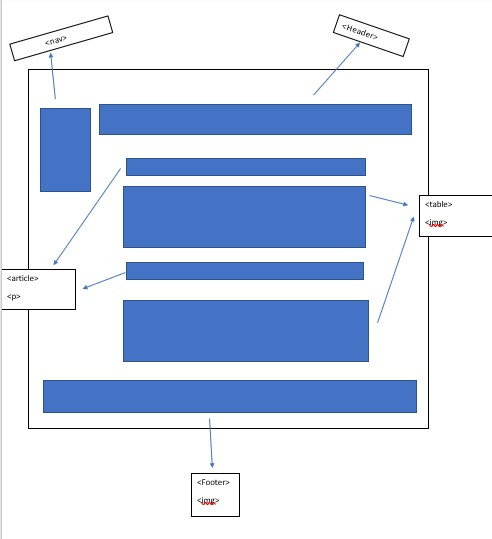
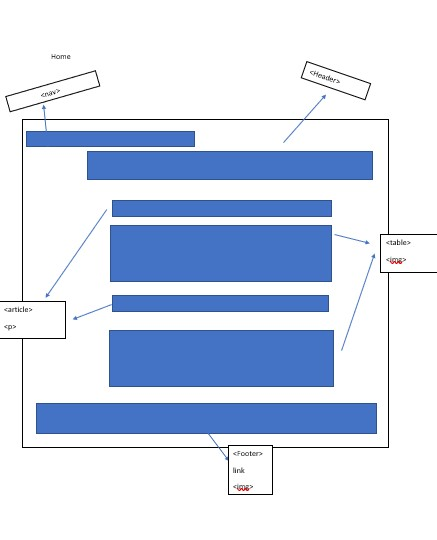
final assignment

Changed region(s): [[0.0, 0.0, 1.0, 1.0]]

diff --git a/siteplan2.html b/siteplan2.html
@@ -11,11 +11,8 @@
 <body> 
   <!--nav code-->
     <nav class="topnav">
-        <a href="index.html">Home</a>
-        <a href="siteplan.html">Site Plans</a>
-        <a href="continued.html">Feed</a>
-        <a href="daytenform.html">Sign Up!</a>
-        <a href="form2.html">Survey</a>
+        <a href="siteplan.html"> Back </a>
+    >>
         
   </nav>
   <br/>
@@ -39,8 +36,8 @@
 <tr>
 <td></td>
 <td></td>
-<td><img src="img/siteplan1.jpg" alt="my website plan" class="responsive" style="float: right;"></td>
-<td><img src="img/siteplan2.jpg" alt="my website plan" class="responsive" style="float: right;"></td>
+<td><img src="img/siteplan5.jpg" alt="my website plan" class="responsive" style="float: right;"></td>
+<td><img src="img/sitemap1.jpg" alt="my website plan" class="responsive" style="float: right;"></td>
 
 
 
@@ -59,16 +56,16 @@
        <br/>
        <tr>
     <td></td>
-    <td><img src="img/siteplan3.jpg" alt="my form plan" class="responsive" style="float: right;"></td>
-    <td><img src="img/siteplan4.jpg" alt="my website map" class="responsive" style="float: right;"> </td>
+    <td><img src="img/siteplan7.jpg" alt="my form plan" class="responsive" style="float: right;"></td>
+    <td><img src="img/siteplan8.jpg" alt="my website map" class="responsive" style="float: right;"> </td>
 
     </tr>
     </table>
-    <b><p style="font-size:18.5px; color: #816b4e ;text-align: center;font-family: 'Gill Sans', 'Gill Sans MT', Calibri, 'Trebuchet MS', sans-serif;"> <a href="siteplan2.html"> Click to Continue </a>
-      <br/>
+
+
     <hr width="50%">
     <footer>
-      <!--foorter and closing tags-->
+      <!--footer and closing tags-->
         <b><p style="font-size:20px; color: #000000 ;text-align: center; font-size:medium;"><a href="#"> <img src="img/snkr beast logo 2.jpg" alt="Logo of a shoe" width="110" height="120"><br/>SNKR BEAST<br/> </p>
         </a>
             </b>

diff --git a/form2.html b/form2.html
@@ -97,7 +97,7 @@ Do you believe you had an good overall experience on this site:<br/>
 <input type="radio" id="q2" name="question" value="no">
 <label for="email2">No</label><br><br><br/>
 <!--experience to better website-->
-Would you say had an good overall experience on this site:<br/>
+Would you visit this site again:<br/>
 <br/>
 
 <input type="radio" id="q3" name="question2" value="yes">
@@ -106,7 +106,7 @@ Would you say had an good overall experience on this site:<br/>
 <label for="q4">No</label><br><br><br/>
 
 <!--experience to better website-->
-Would you reccomend this site to someone else:<br/>
+Would you recommend this site to someone else:<br/>
 <br/>
 
 <input type="radio" id="q5" name="question3" value="yes">

diff --git a/daytenform.html b/daytenform.html
@@ -22,8 +22,10 @@
       </nav>
       <br/>
 <article>
+
         <b><h1 style="font-size:15px; color: #6ba4b3 ;text-align: center; font-size:xxx-large;"> GET NEWS AND OFFERS FROM<br/>
         SNKR BEAST!!!</h1>
+      
         </article>
 
 
@@ -117,7 +119,9 @@ method="post" enctype="text/plain">
 <!--sumbit button to send info-->
 <br/>
 <br/>
+<div id="grad1">
 <input type="submit" value="Submit">
+</div>
 </td>
 <td></td>
 

diff --git a/index.html b/index.html
@@ -70,7 +70,7 @@
             </p>
           </article>
               <br/>
-              <!-- table #1-->
+            <!--cite-->
        <tr>
     <td></td>
     <td><img src="https://static.nike.com/a/images/t_PDP_864_v1/f_auto,b_rgb:f5f5f5,q_80/d3950d22-51d6-446b-8213-f4bae6133a2b/blazer-mid-77-se-shoe-5T2ZCl.png" alt="Nike Blazer Mid '77 SE" class="responsive" style="float: right;"></td>

diff --git a/css/style1.css b/css/style1.css
@@ -204,6 +204,12 @@ input[type=number] {
   color: #b67987;
 }
         
+#grad1 {
+  height: 80px;
+  width: 600px;
+  background-color: #6d858b; /* For browsers that do not support gradients */
+  background-image: linear-gradient(to right, rgb(180, 205, 233) , rgb(79, 113, 177));
+}
        /* Style the footer */
   footer {
       background-color: #f5f5f5;

diff --git a/continued.html b/continued.html
@@ -75,8 +75,7 @@
        </table>
 
 
-
-<!--Paragraph #2-->
+<!--link-->
     
        <b><p style="font-size:18.5px; color: #816b4e ;text-align: center;font-family: 'Gill Sans', 'Gill Sans MT', Calibri, 'Trebuchet MS', sans-serif;"> <a href="continued2.html"> Click to Continue </a>
           <br/>
